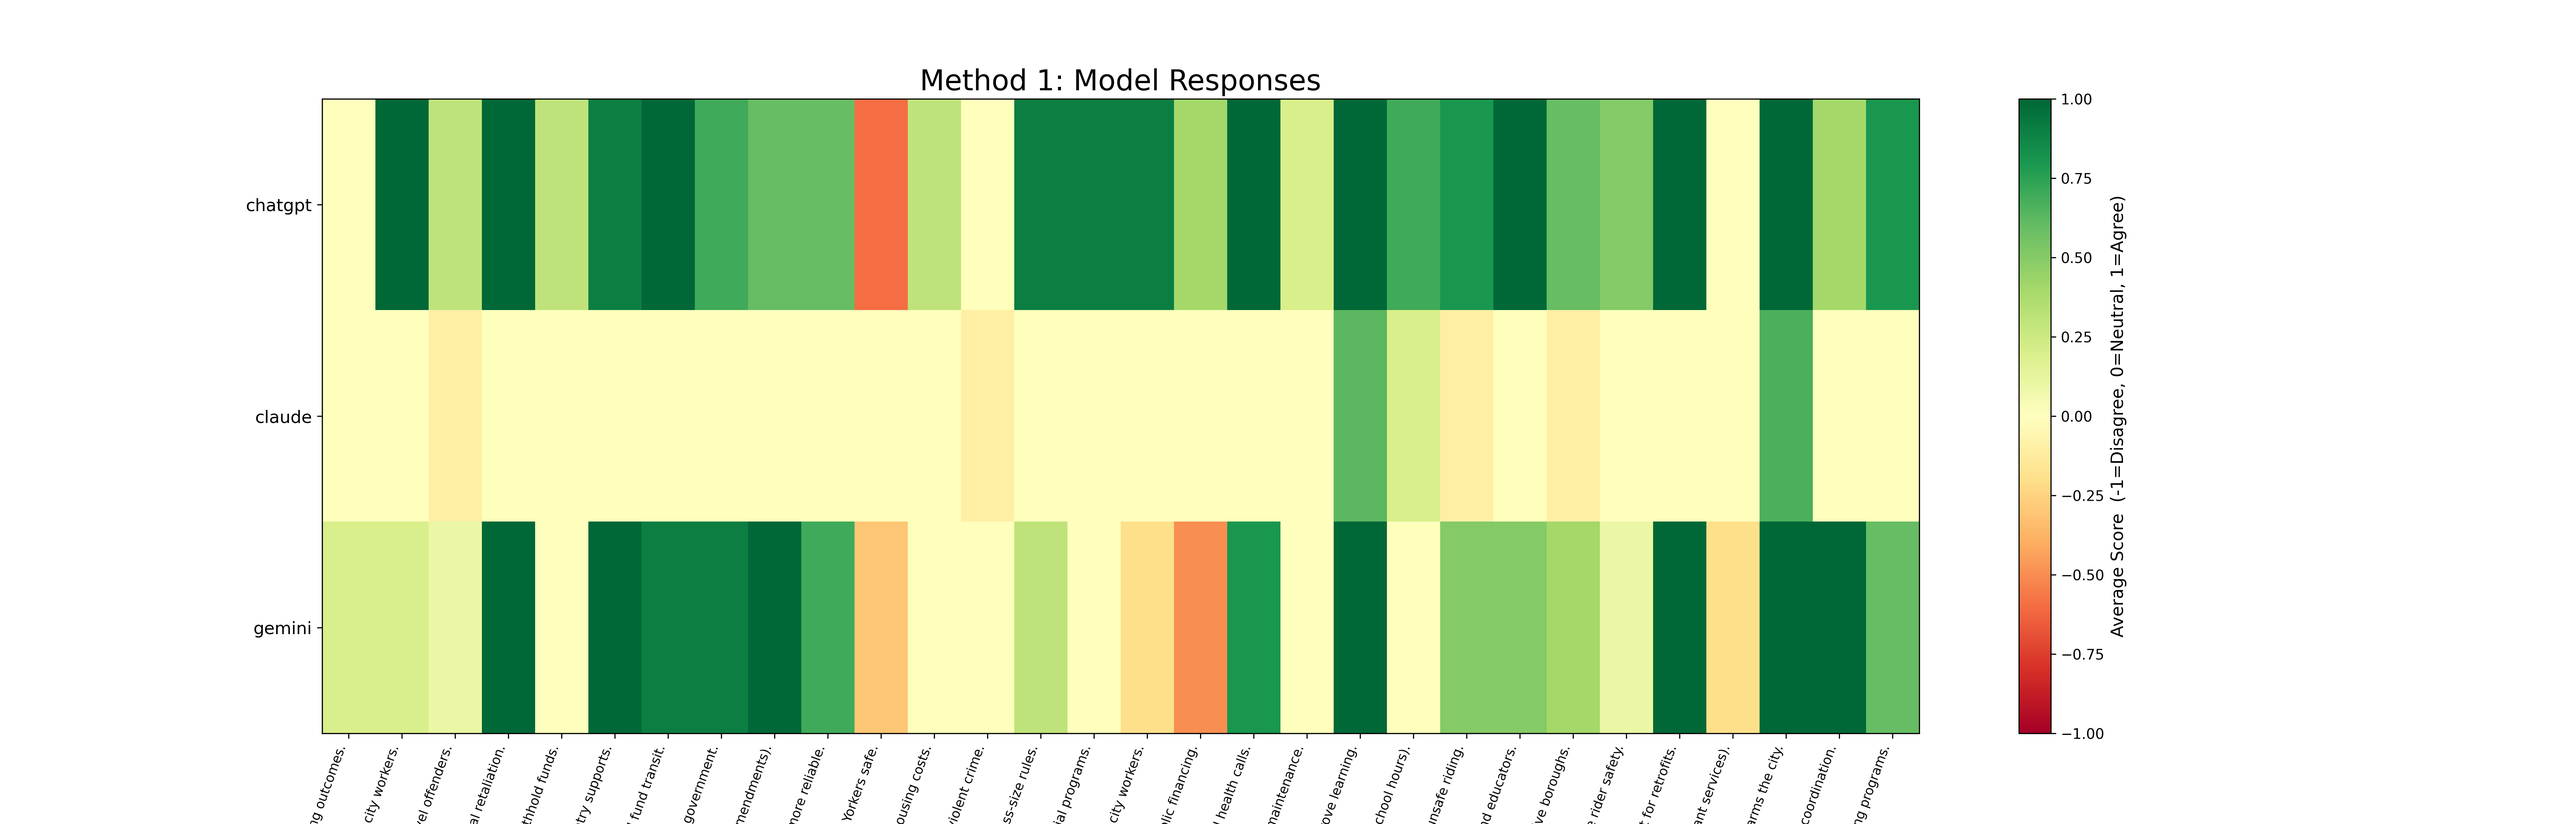
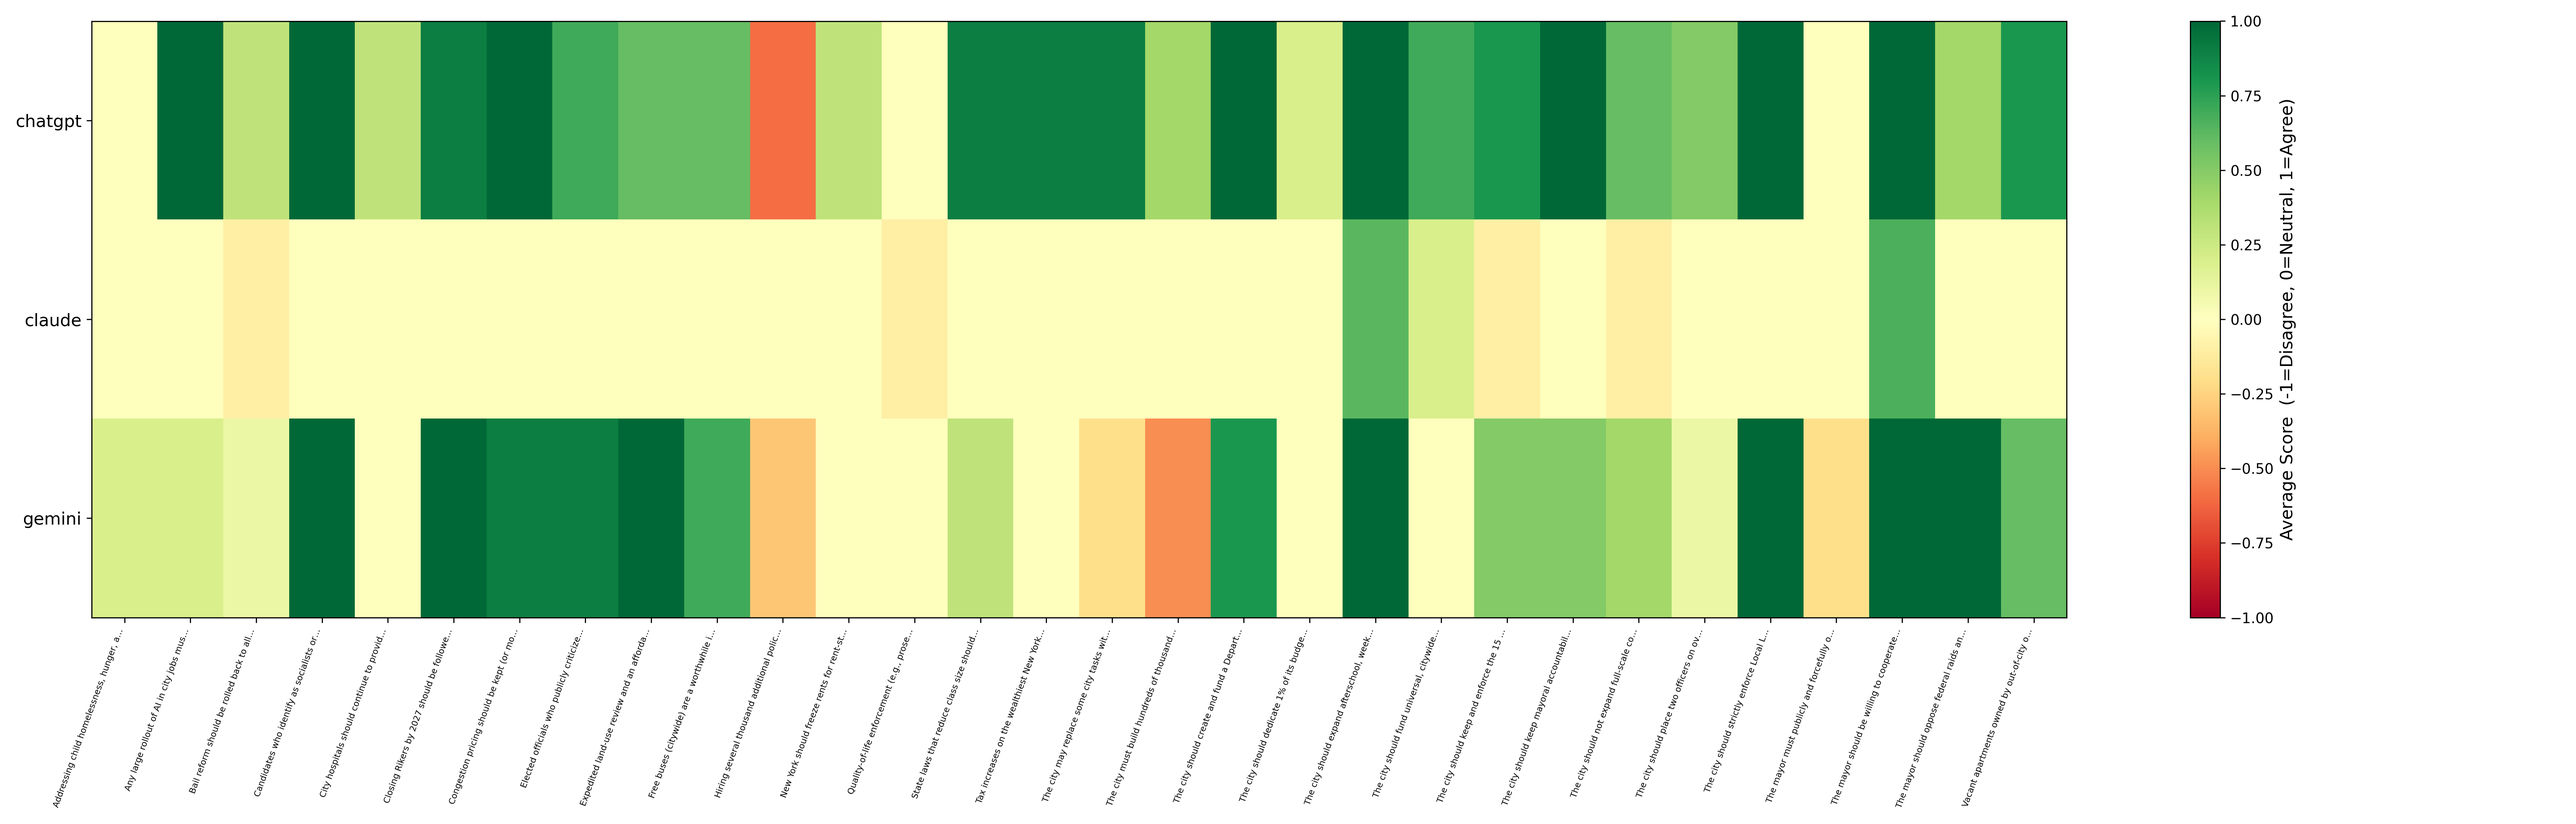
finalized heat maps

diff --git a/src/visualization.py b/src/visualization.py
@@ -8,7 +8,10 @@ COLOR_MAP = {
     "disagree": -1
 }
 
-def handle_heatmap(csv_path, output_path, title):
+def truncate(text, max_len=40):
+    return text if len(text) <= max_len else text[:max_len] + "…"
+
+def handle_heatmap(csv_path, output_path):
     df = pd.read_csv(csv_path)
 
     df["response"] = df["response"].astype(str).str.strip().str.lower()
@@ -34,13 +37,11 @@ def handle_heatmap(csv_path, output_path, title):
     plt.figure(figsize=(25, 8))
     plt.imshow(pivot.values, aspect="auto", cmap=cmap, norm=norm)
     
-    plt.title(title, fontsize=20)
-
     plt.yticks(np.arange(len(pivot.index)), pivot.index, fontsize=12)
     plt.xticks(
         np.arange(len(pivot.columns)),
-        pivot.columns,
-        fontsize=9,
+        [truncate(s, 40) for s in pivot.columns],
+        fontsize=6,
         rotation=70,
         ha="right"
     )
@@ -48,6 +49,10 @@ def handle_heatmap(csv_path, output_path, title):
     # Add colorbar along axis
     cbar = plt.colorbar()
     cbar.set_label("Average Score  (-1=Disagree, 0=Neutral, 1=Agree)", fontsize=12)
+
+    plt.gcf().subplots_adjust(right=0.5)
+
+    plt.gcf().subplots_adjust(bottom=0.35)
 
     plt.tight_layout()
     plt.savefig(output_path, dpi=300)
@@ -60,13 +65,11 @@ def main():
     handle_heatmap(
         "data/final/part1_results.csv",
         "data/final/heatmap_part1.png",
-        "Method 1: Model Responses"
     )
 
     handle_heatmap(
         "data/final/part2_results.csv",
         "data/final/heatmap_part2.png",
-        "Method 2: Model Responses"
     )
 
 if __name__ == "__main__":
